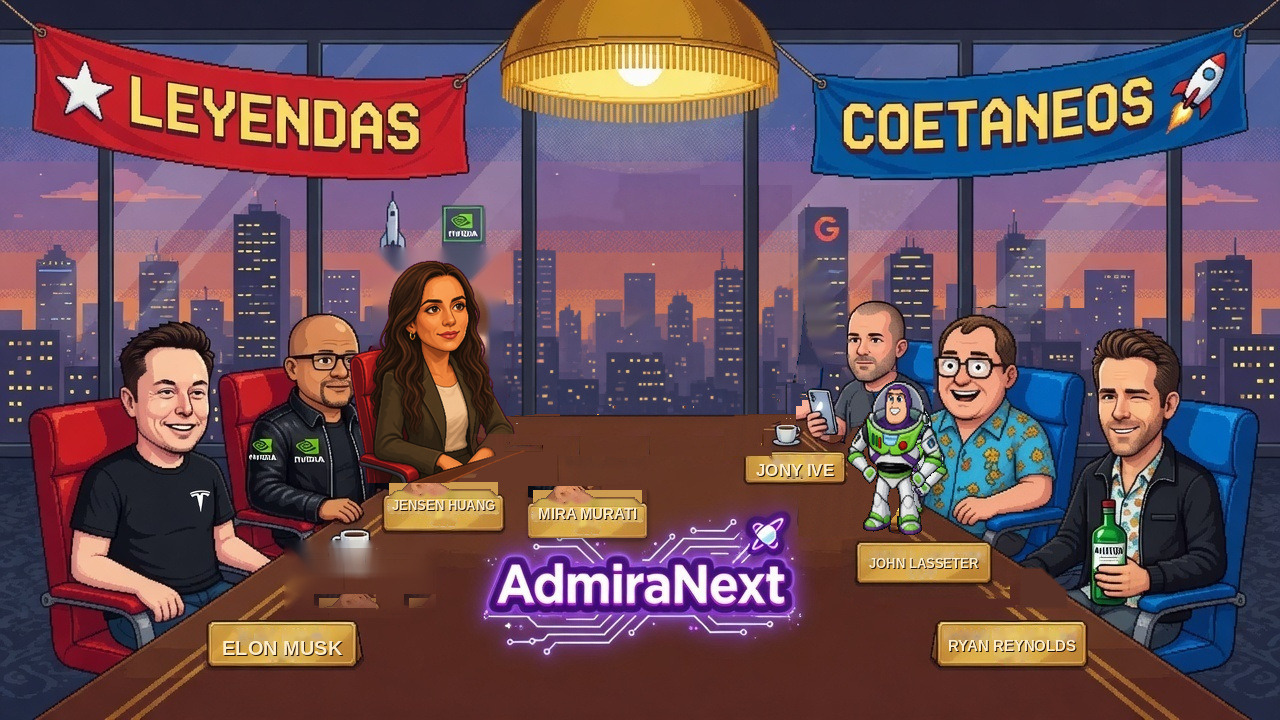
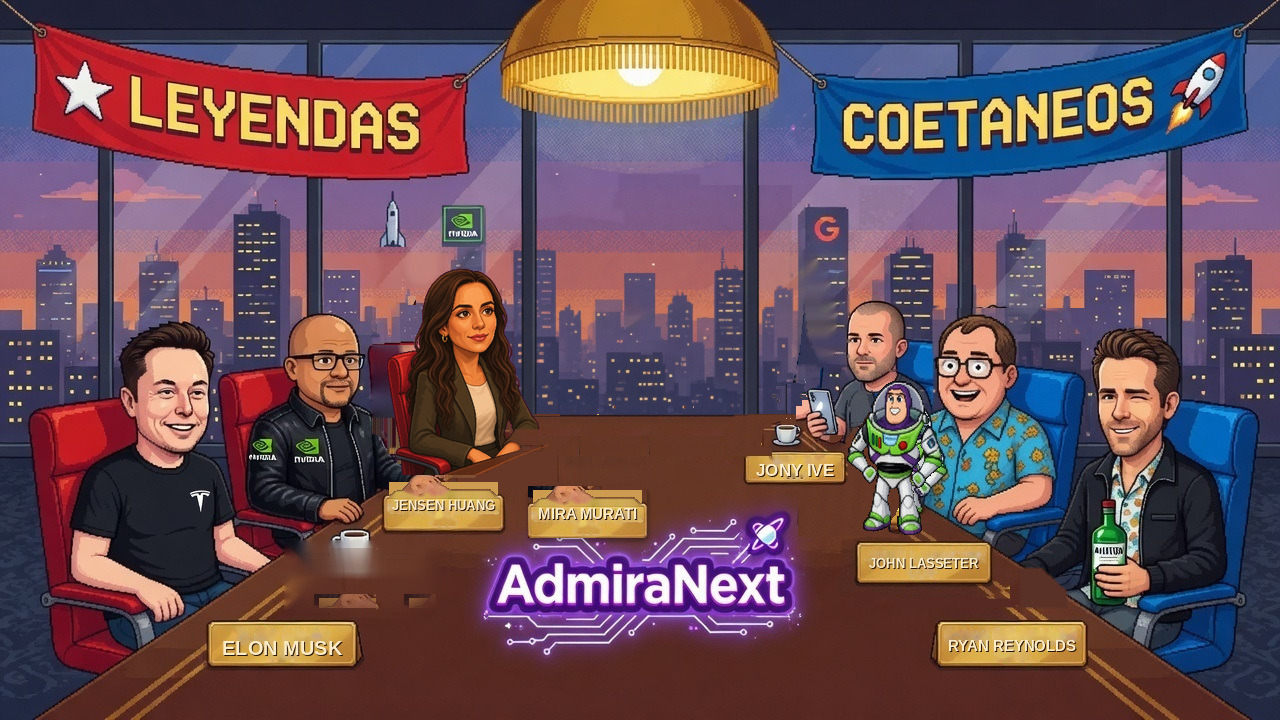
Coetáneos: Murati se desplaza a la derecha y no pisa a Jensen; flecha sobre su cabeza

Changed region(s): [[0.25, 0.3361, 0.4375, 0.6722]]

diff --git a/assets/council-silhouettes.js b/assets/council-silhouettes.js
@@ -1,1 +1,1 @@
-window.COUNCIL_SILHOUETTES = {"leyendas":{"width":1360,"height":768,"paths":{"Steve Jobs":"M167 314 L139 311 L121 319 L112 328 L106 341 L111 389 L32 412 L19 422 L23 488 L43 580 L40 608 L47 613 L48 621 L182 621 L183 607 L197 583 L213 565 L223 561 L223 470 L209 448 L191 432 L187 399 L196 369 L185 334 Z","Steve Wozniak":"M283 260 L270 268 L259 284 L258 335 L254 346 L248 350 L251 358 L256 358 L267 368 L272 386 L268 411 L273 429 L278 435 L288 427 L298 428 L301 423 L287 421 L282 417 L282 411 L317 404 L325 397 L323 384 L330 376 L338 377 L346 398 L345 434 L338 450 L319 450 L313 443 L291 442 L280 449 L273 463 L270 484 L285 486 L286 501 L282 507 L291 514 L298 529 L307 533 L308 540 L324 526 L361 529 L373 524 L373 497 L366 501 L360 499 L350 508 L340 505 L336 498 L317 494 L314 489 L322 482 L363 477 L373 472 L373 391 L363 382 L348 357 L334 347 L337 335 L332 309 L335 283 L327 270 L317 261 Z","Warren Buffett":"M438 209 L421 212 L406 228 L401 267 L415 284 L410 300 L374 326 L374 475 L418 484 L431 479 L448 479 L467 459 L455 451 L457 446 L471 439 L464 430 L464 419 L448 415 L446 407 L479 408 L487 404 L490 394 L503 388 L509 379 L506 366 L477 317 L453 302 L471 284 L469 240 L461 221 Z","Carlos Silva":"M668 176 L644 215 L640 255 L601 274 L598 400 L626 409 L667 409 L685 397 L701 409 L776 401 L785 376 L767 328 L767 273 L725 255 L707 186 Z","Dieter Rams":"M942 211 L923 232 L923 251 L916 258 L935 306 L916 321 L903 349 L906 363 L909 359 L918 359 L922 366 L922 381 L930 389 L912 406 L912 411 L939 419 L939 426 L925 434 L937 439 L944 451 L939 455 L912 458 L934 481 L1012 477 L1018 490 L1013 506 L1019 506 L1019 321 L983 298 L981 288 L994 270 L994 241 L989 229 L964 211 Z","Walt Disney":"M1080 244 L1052 252 L1042 270 L1040 300 L1046 325 L1060 342 L1040 360 L1022 380 L1020 470 L1040 492 L1100 495 L1130 488 L1155 470 L1155 380 L1140 360 L1118 345 L1122 320 L1124 290 L1116 262 L1100 248 Z","George Lucas":"M1214 328 L1196 349 L1196 382 L1205 432 L1189 442 L1156 486 L1156 563 L1171 578 L1168 601 L1185 621 L1181 637 L1185 652 L1181 659 L1187 659 L1187 653 L1193 647 L1199 653 L1198 659 L1224 659 L1224 636 L1227 622 L1233 616 L1232 599 L1258 594 L1264 598 L1263 609 L1244 616 L1275 626 L1282 622 L1284 614 L1297 612 L1300 622 L1298 647 L1304 659 L1325 659 L1328 614 L1336 607 L1332 594 L1320 588 L1306 588 L1301 584 L1313 549 L1316 478 L1310 463 L1279 433 L1275 424 L1283 409 L1284 355 L1268 334 L1256 328 L1230 324 Z"}},"coetaneos":{"width":1280,"height":720,"paths":{"Elon Musk":"M190 321 L164 321 L158 327 L139 333 L119 357 L124 380 L120 398 L127 414 L136 421 L137 439 L134 443 L95 462 L72 466 L69 471 L61 473 L56 469 L55 459 L47 470 L40 469 L38 447 L32 436 L48 584 L40 601 L50 612 L51 638 L58 660 L248 660 L248 511 L235 510 L218 465 L195 449 L207 426 L214 354 L205 333 Z","Jensen Huang":"M340 317 L314 315 L296 325 L289 337 L288 354 L283 364 L293 383 L288 399 L261 414 L249 426 L251 525 L264 522 L273 505 L295 496 L300 498 L303 506 L317 507 L319 516 L327 517 L335 512 L336 499 L354 487 L356 455 L349 425 L359 421 L351 399 L359 387 L364 356 L359 351 L355 331 Z","Mira Murati":"M450 264 L419 263 L399 278 L380 340 L381 349 L368 352 L365 387 L358 400 L364 418 L360 427 L365 452 L361 467 L366 468 L367 483 L458 481 L492 464 L486 463 L495 456 L486 447 L489 434 L515 434 L494 395 L490 370 L483 360 L485 346 L477 331 L480 311 L472 287 L464 274 Z","John Lasseter":"M1071 374 L1003 368 L991 329 L963 334 L959 326 L939 359 L945 409 L935 414 L923 411 L915 390 L901 382 L868 391 L855 380 L836 403 L828 391 L809 390 L812 409 L827 419 L825 452 L844 454 L844 480 L805 482 L805 533 L821 549 L919 542 L922 505 L970 524 L997 512 L1042 505 L1054 476 L1050 450 L1061 445 L1067 425 L1065 384 Z","Jony Ive":"M863 303 L851 314 L848 325 L848 363 L853 380 L835 398 L826 389 L817 390 L807 384 L800 387 L800 394 L807 397 L808 412 L825 410 L834 425 L834 432 L828 438 L851 460 L883 465 L884 480 L874 487 L875 493 L883 493 L892 485 L918 485 L925 481 L933 484 L933 402 L923 387 L896 369 L896 361 L907 347 L902 316 L889 304 Z","Ryan Reynolds":"M1109 331 L1094 349 L1092 370 L1098 418 L1111 451 L1101 466 L1105 474 L1105 494 L1091 517 L1084 516 L1081 498 L1081 592 L1150 592 L1155 589 L1161 592 L1212 592 L1226 569 L1225 536 L1217 487 L1204 467 L1176 451 L1163 434 L1179 401 L1176 355 L1160 336 L1145 329 Z"}}};
+window.COUNCIL_SILHOUETTES = {"leyendas":{"width":1360,"height":768,"paths":{"Steve Jobs":"M167 314 L139 311 L121 319 L112 328 L106 341 L111 389 L32 412 L19 422 L23 488 L43 580 L40 608 L47 613 L48 621 L182 621 L183 607 L197 583 L213 565 L223 561 L223 470 L209 448 L191 432 L187 399 L196 369 L185 334 Z","Steve Wozniak":"M283 260 L270 268 L259 284 L258 335 L254 346 L248 350 L251 358 L256 358 L267 368 L272 386 L268 411 L273 429 L278 435 L288 427 L298 428 L301 423 L287 421 L282 417 L282 411 L317 404 L325 397 L323 384 L330 376 L338 377 L346 398 L345 434 L338 450 L319 450 L313 443 L291 442 L280 449 L273 463 L270 484 L285 486 L286 501 L282 507 L291 514 L298 529 L307 533 L308 540 L324 526 L361 529 L373 524 L373 497 L366 501 L360 499 L350 508 L340 505 L336 498 L317 494 L314 489 L322 482 L363 477 L373 472 L373 391 L363 382 L348 357 L334 347 L337 335 L332 309 L335 283 L327 270 L317 261 Z","Warren Buffett":"M438 209 L421 212 L406 228 L401 267 L415 284 L410 300 L374 326 L374 475 L418 484 L431 479 L448 479 L467 459 L455 451 L457 446 L471 439 L464 430 L464 419 L448 415 L446 407 L479 408 L487 404 L490 394 L503 388 L509 379 L506 366 L477 317 L453 302 L471 284 L469 240 L461 221 Z","Carlos Silva":"M668 176 L644 215 L640 255 L601 274 L598 400 L626 409 L667 409 L685 397 L701 409 L776 401 L785 376 L767 328 L767 273 L725 255 L707 186 Z","Dieter Rams":"M942 211 L923 232 L923 251 L916 258 L935 306 L916 321 L903 349 L906 363 L909 359 L918 359 L922 366 L922 381 L930 389 L912 406 L912 411 L939 419 L939 426 L925 434 L937 439 L944 451 L939 455 L912 458 L934 481 L1012 477 L1018 490 L1013 506 L1019 506 L1019 321 L983 298 L981 288 L994 270 L994 241 L989 229 L964 211 Z","Walt Disney":"M1080 244 L1052 252 L1042 270 L1040 300 L1046 325 L1060 342 L1040 360 L1022 380 L1020 470 L1040 492 L1100 495 L1130 488 L1155 470 L1155 380 L1140 360 L1118 345 L1122 320 L1124 290 L1116 262 L1100 248 Z","George Lucas":"M1214 328 L1196 349 L1196 382 L1205 432 L1189 442 L1156 486 L1156 563 L1171 578 L1168 601 L1185 621 L1181 637 L1185 652 L1181 659 L1187 659 L1187 653 L1193 647 L1199 653 L1198 659 L1224 659 L1224 636 L1227 622 L1233 616 L1232 599 L1258 594 L1264 598 L1263 609 L1244 616 L1275 626 L1282 622 L1284 614 L1297 612 L1300 622 L1298 647 L1304 659 L1325 659 L1328 614 L1336 607 L1332 594 L1320 588 L1306 588 L1301 584 L1313 549 L1316 478 L1310 463 L1279 433 L1275 424 L1283 409 L1284 355 L1268 334 L1256 328 L1230 324 Z"}},"coetaneos":{"width":1280,"height":720,"paths":{"Elon Musk":"M190 321 L164 321 L158 327 L139 333 L119 357 L124 380 L120 398 L127 414 L136 421 L137 439 L134 443 L95 462 L72 466 L69 471 L61 473 L56 469 L55 459 L47 470 L40 469 L38 447 L32 436 L48 584 L40 601 L50 612 L51 638 L58 660 L248 660 L248 511 L235 510 L218 465 L195 449 L207 426 L214 354 L205 333 Z","Jensen Huang":"M340 317 L314 315 L296 325 L289 337 L288 354 L283 364 L293 383 L288 399 L261 414 L249 426 L251 525 L264 522 L273 505 L295 496 L300 498 L303 506 L317 507 L319 516 L327 517 L335 512 L336 499 L354 487 L356 455 L349 425 L359 421 L351 399 L359 387 L364 356 L359 351 L355 331 Z","Mira Murati":"M482 272 L453 269 L440 275 L425 296 L415 349 L388 358 L387 375 L400 445 L395 458 L401 461 L402 474 L479 474 L548 445 L512 455 L521 449 L512 441 L513 431 L538 428 L518 389 L515 368 L509 360 L511 347 L504 334 L507 315 L499 292 Z","John Lasseter":"M1071 374 L1003 368 L991 329 L963 334 L959 326 L939 359 L945 409 L935 414 L923 411 L915 390 L901 382 L868 391 L855 380 L836 403 L828 391 L809 390 L812 409 L827 419 L825 452 L844 454 L844 480 L805 482 L805 533 L821 549 L919 542 L922 505 L970 524 L997 512 L1042 505 L1054 476 L1050 450 L1061 445 L1067 425 L1065 384 Z","Jony Ive":"M863 303 L851 314 L848 325 L848 363 L853 380 L835 398 L826 389 L817 390 L807 384 L800 387 L800 394 L807 397 L808 412 L825 410 L834 425 L834 432 L828 438 L851 460 L883 465 L884 480 L874 487 L875 493 L883 493 L892 485 L918 485 L925 481 L933 484 L933 402 L923 387 L896 369 L896 361 L907 347 L902 316 L889 304 Z","Ryan Reynolds":"M1109 331 L1094 349 L1092 370 L1098 418 L1111 451 L1101 466 L1105 474 L1105 494 L1091 517 L1084 516 L1081 498 L1081 592 L1150 592 L1155 589 L1161 592 L1212 592 L1226 569 L1225 536 L1217 487 L1204 467 L1176 451 L1163 434 L1179 401 L1176 355 L1160 336 L1145 329 Z"}}};

diff --git a/index.html b/index.html
@@ -4590,24 +4590,24 @@ body.rail-open{overflow:hidden}
 <script defer src="council-grokbot.js?v=20261024-r99-ancha"></script>
 <script defer src="council-todo.js?v=20260930-flt101302"></script>
 <script defer src="council-estado.js?v=20261111-mascaras"></script>
-<script defer src="council-globo.js?v=20261111-r155-caja-globo"></script>
-<script defer src="assets/council-silhouettes.js?v=20261111-murati"></script>
-<script defer src="assets/council-recorte.js?v=20261111-murati"></script>
+<script defer src="council-globo.js?v=20261112-murati-jensen"></script>
+<script defer src="assets/council-silhouettes.js?v=20261112-murati-jensen"></script>
+<script defer src="assets/council-recorte.js?v=20261112-murati-jensen"></script>
 <script defer src="/assets/cli-bilingue.js?v=20261006-r19-bilingue"></script>
 <script defer src="/assets/interface-cli.js?v=20261011-5707-selector2"></script>
 <script defer src="/assets/diario-cli.js?v=20261012-5796"></script>
 <script defer src="/assets/cli-ayuda.js?v=20261011-5707-selector"></script>
 <link rel="stylesheet" href="/assets/webcam.css?v=20261014-5863">
 <script defer src="/assets/webcam.js?v=20261014-5863"></script>
-<script defer src="assets/council-presencia.js?v=20261111-murati"></script>
-<script defer src="app.flt-100529.js?v=20261111-murati"></script>
+<script defer src="assets/council-presencia.js?v=20261112-murati-jensen"></script>
+<script defer src="app.flt-100529.js?v=20261112-murati-jensen"></script>
 <script defer src="council-preview.js?v=20260921-ultra1"></script>
 <script defer src="council-composer.js?v=20261009-r9-paste"></script>
 <script defer src="council-working.js?v=20260930-flt101302"></script>
 <script defer src="/consejeros-voces.js?v=20261111-voces2"></script>
 <script defer src="hablar-cmd.js?v=20261111-hablar-2"></script>
 <script defer src="council-integration.js?v=20261111-hablar-2"></script>
-<script type="module" src="assets/mac-hoy.js?v=20261111-murati-coetaneos"></script>
+<script type="module" src="assets/mac-hoy.js?v=20261112-murati-jensen-coetaneos"></script>
 <script src="assets/mac-proyecto.js?v=20261024-previos2"></script>
 <script defer src="assets/aviso-version.js?v=20261004-5113c"></script>
 <script defer src="assets/sello-novedades.js?v=20261006-r15-idioma"></script>

diff --git a/council-globo.js b/council-globo.js
@@ -36,7 +36,7 @@
     coetaneos: {
       'Elon Musk': { activo: true, sobre: 'placa', puntos: [[16.25, 85.833], [27.734, 85.833], [28.047, 86.25], [28.203, 87.222], [28.203, 91.111], [27.891, 92.361], [16.406, 92.361], [16.094, 91.806], [16.094, 86.389]], flecha: { x: 13.125, y: 42.778 }, x: 22.148, y: 89.097, w: 12.109, h: 6.528 },
       'Jensen Huang': { activo: true, sobre: 'placa', puntos: [[29.844, 68.611], [39.453, 68.472], [39.688, 68.889], [39.766, 70.139], [39.766, 73.056], [39.453, 73.889], [29.844, 73.889], [29.609, 73.333], [29.609, 69.167]], flecha: { x: 24.375, y: 41.389 }, x: 34.688, y: 71.18, w: 10.157, h: 5.417 },
-      'Mira Murati': { activo: true, sobre: 'placa', puntos: [[41.25, 67.5], [50.2, 67.5], [50.547, 67.9], [50.547, 74.3], [50.2, 74.722], [41.25, 74.722], [41.0, 74.3], [41.0, 67.9]], flecha: { x: 38.5, y: 36.667 }, x: 45.898, y: 71.111, w: 9.297, h: 7.222 },
+      'Mira Murati': { activo: true, sobre: 'placa', puntos: [[41.25, 67.5], [50.2, 67.5], [50.547, 67.9], [50.547, 74.3], [50.2, 74.722], [41.25, 74.722], [41.0, 74.3], [41.0, 67.9]], flecha: { x: 37.3, y: 36.8 }, x: 45.898, y: 71.111, w: 9.297, h: 7.222 },
       'Jony Ive': { activo: true, sobre: 'placa', puntos: [[58.281, 62.778], [65.703, 62.639], [65.938, 63.056], [66.016, 64.167], [66.016, 66.389], [65.781, 67.083], [58.359, 67.083], [58.125, 66.667], [58.125, 63.194]], flecha: { x: 68.594, y: 39.444 }, x: 62.071, y: 64.861, w: 7.891, h: 4.444 },
       'John Lasseter': { activo: true, sobre: 'placa', puntos: [[66.953, 74.861], [77.188, 74.861], [77.5, 75.278], [77.578, 76.389], [77.578, 80.139], [77.266, 80.972], [67.031, 80.972], [66.797, 80.417], [66.797, 75.417]], flecha: { x: 76.563, y: 42.222 }, x: 72.188, y: 77.916, w: 10.781, h: 6.111 },
       'Ryan Reynolds': { activo: true, sobre: 'placa', puntos: [[73.359, 85.972], [84.844, 85.972], [85.078, 86.389], [85.078, 91.806], [84.844, 92.5], [73.359, 92.5], [73.047, 91.944], [72.812, 90.972], [72.812, 88.056], [73.047, 86.389]], flecha: { x: 88.75, y: 41.389 }, x: 78.945, y: 89.236, w: 12.266, h: 6.528 }

diff --git a/assets/council-recorte.js b/assets/council-recorte.js
@@ -13,7 +13,7 @@
   function dims(gen) { var s = sil(gen); return s ? [s.width, s.height] : (gen === 'coetaneos' ? [1280, 720] : [1360, 768]); }
   // Recortes guardados ANTES de la foto actual de cada sala no valen: son de otro arte.
   // (11-nov-2026: los del 4-oct, sala de 8, ponían a Disney sobre Carlos y a Lucas en la silla de Disney.)
-  var ARTE_DESDE = { leyendas: '2026-11-06T00:00:00Z', coetaneos: '2026-11-11T21:40:00Z' };
+  var ARTE_DESDE = { leyendas: '2026-11-06T00:00:00Z', coetaneos: '2026-11-12T08:00:00Z' };
   function vigente(gen) { var desde = ARTE_DESDE[gen]; if (!desde) return true; var t = Date.parse(data.updatedAt || ''); return !!t && t >= Date.parse(desde); }
   function poly(gen, persona) { if (!vigente(gen)) return null; var g = data.polys && data.polys[gen]; return g && g[persona] && g[persona].length >= 3 ? g[persona] : null; }
   function toPath(pts, W, H) {

diff --git a/app.flt-100529.js b/app.flt-100529.js
@@ -261,7 +261,7 @@
     let currentGen = "leyendas";
     let speakerTurnMap = {};
     let activeLegendPersona = "Steve Jobs";
-    const COUNCIL_IMAGE_VERSION = "20261111-murati";
+    const COUNCIL_IMAGE_VERSION = "20261112-murati-jensen";
     const LEGEND_MANDATES = {
         "Steve Jobs": {
             short: "foco producto",

diff --git a/app.js b/app.js
@@ -261,7 +261,7 @@
     let currentGen = "leyendas";
     let speakerTurnMap = {};
     let activeLegendPersona = "Steve Jobs";
-    const COUNCIL_IMAGE_VERSION = "20261111-murati";
+    const COUNCIL_IMAGE_VERSION = "20261112-murati-jensen";
     const LEGEND_MANDATES = {
         "Steve Jobs": {
             short: "foco producto",

diff --git a/assets/council-presencia.js b/assets/council-presencia.js
@@ -5,7 +5,7 @@
 (function (root) {
   'use strict';
   var KEY = 'admira:consejo-presencia';
-  var ASSET_V = '20261111-murati';
+  var ASSET_V = '20261112-murati-jensen';
   var GENS = {
     leyendas: [
       ['Steve Jobs', 'CEO', 'racional', ['jobs', 'steve jobs', 'steve-jobs']],
